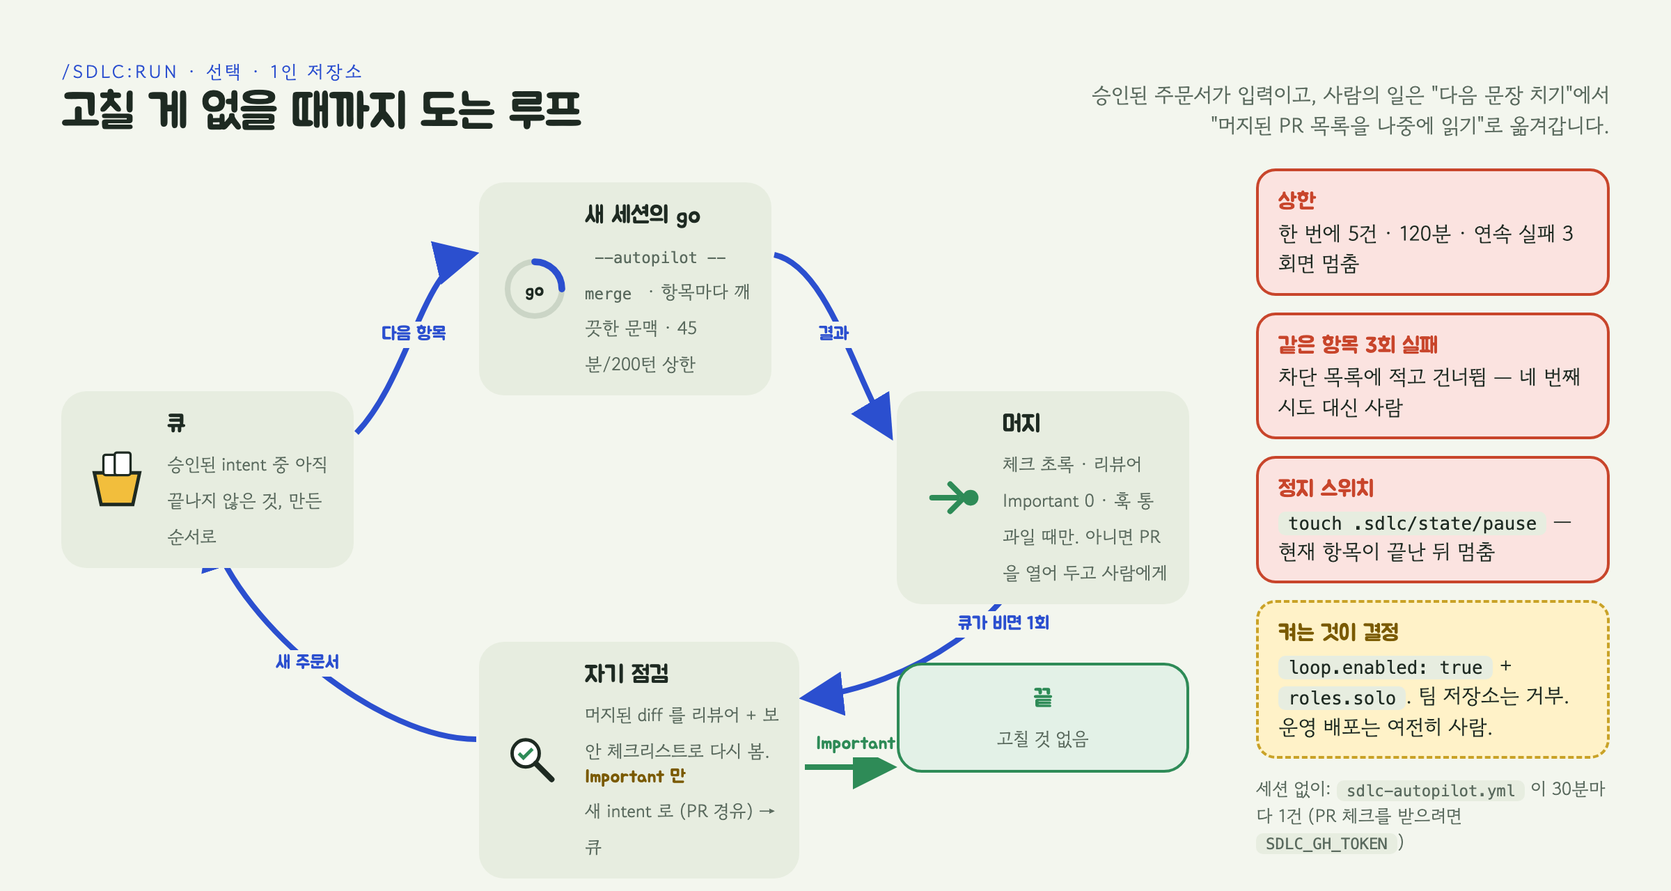
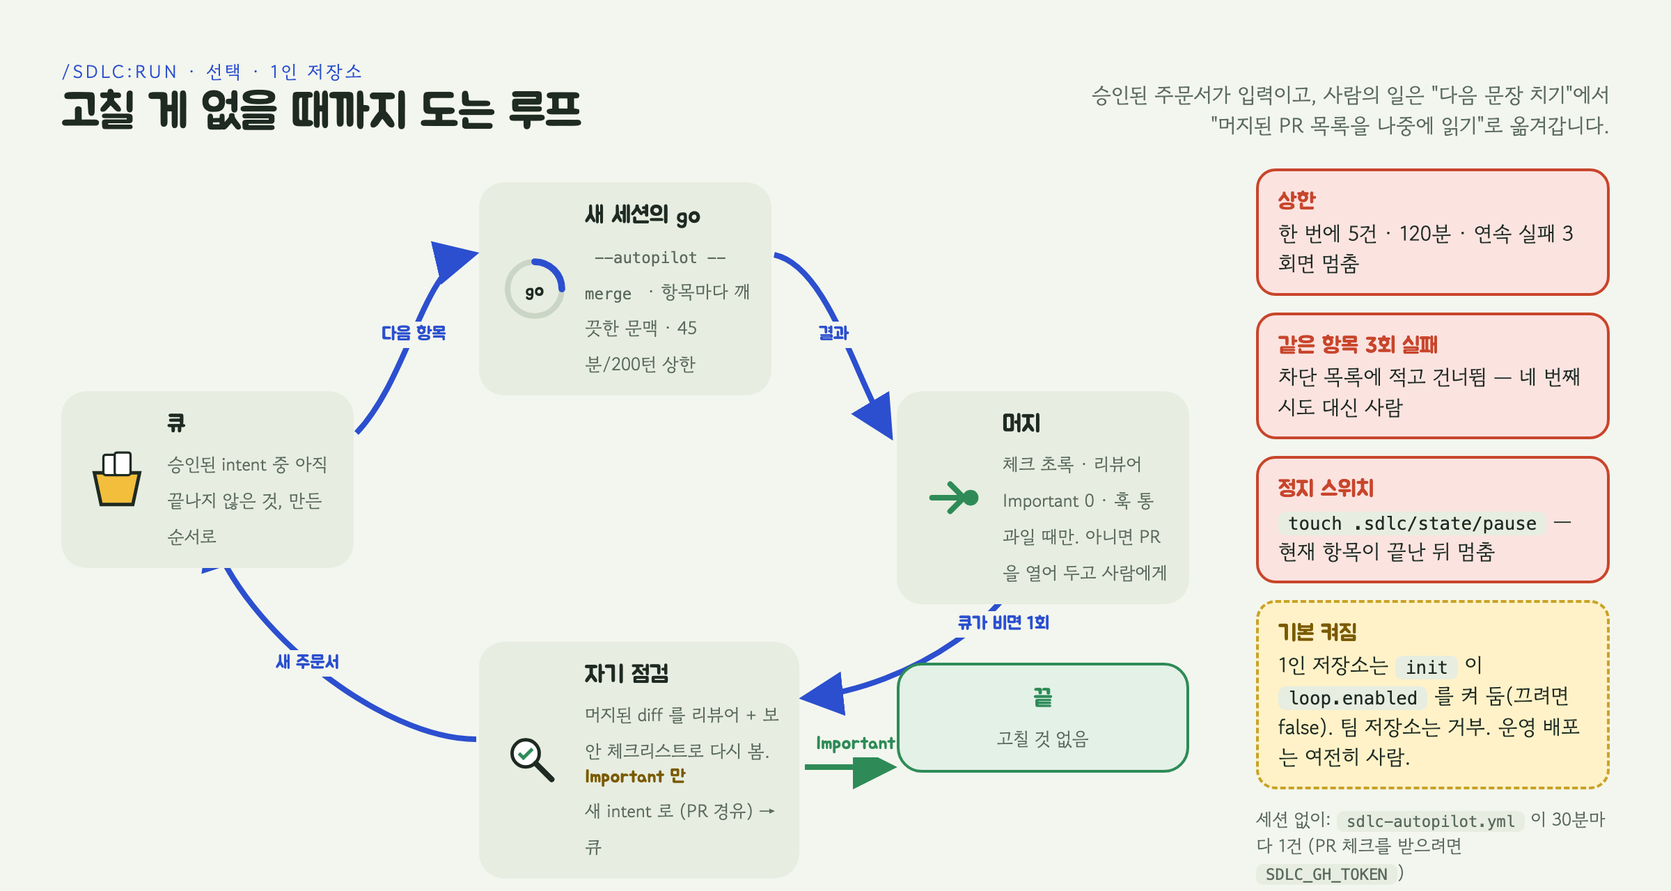
docs: every document says solo is automatic by default (0.5.1)
run/init skills, autopilot workflow header, mapping deviation note, ELI5 page, pictures 01/03, Archify card redelivered.

Claude-Session: https://claude.ai/code/session_01PJNbujz3n5Aw2NZTvboJ7k

Changed region(s): [[0.75, 0.6875, 0.9688, 1.0]]

diff --git a/docs/eli5-plugin.html b/docs/eli5-plugin.html
@@ -120,7 +120,7 @@ section:first-of-type{border-top:0}
   <div class="cards" style="margin-top:22px;grid-template-columns:repeat(auto-fit,minmax(300px,1fr))">
     <div class="card"><svg viewBox="0 0 64 64"><rect x="8" y="26" width="48" height="28" rx="6" fill="var(--accent)" stroke="var(--ink)" stroke-width="3"/><path d="M10 26 l6 -12 h32 l6 12z" fill="var(--sun)" stroke="var(--ink)" stroke-width="3"/><text x="32" y="46" text-anchor="middle" font-size="12" fill="var(--accent-ink)">1회</text></svg><div><b>/sdlc:init — 저장소마다 한 번</b><p class="kid">주방을 둘러보고 알아서 차려요. GitHub 주방인지, 혼자 쓰는 주방인지, 열쇠가 이미 있는지 보고 — 심부름 붙이기, 열쇠 보관, 머지 설정, 문 잠금 규칙까지 해 둔 다음, 바뀐 것은 PR 로 올려요.</p><p class="adult">GitHub 원격·협업자 수·보관된 구독 토큰 감지 → 워크플로 6종·CODEOWNERS·시크릿·auto-merge·ruleset(요금제가 허용할 때) → doctor → 채택 커밋을 브랜치+PR 로. 사람 몫은 계정당 한 번의 GitHub 로그인 승인과 토큰 발급(브라우저)</p></div></div>
     <div class="card"><svg viewBox="0 0 64 64"><circle cx="32" cy="32" r="24" fill="none" stroke="var(--line)" stroke-width="5"/><path d="M32 8 a24 24 0 0 1 24 24" fill="none" stroke="var(--accent)" stroke-width="6" stroke-linecap="round"/><path d="M52 26 l4 6 l6 -4" fill="none" stroke="var(--accent)" stroke-width="4"/><text x="32" y="38" text-anchor="middle" font-size="16">go</text></svg><div><b>/sdlc:go "…" — 변경마다 한 줄</b><p class="kid">"이거 해줘" 한 마디면 주문서 → 레시피 → 순서표 → 요리 → 맛보기 → 검사 → 서빙 준비(PR)까지 이어서 해요. 정말 물어야 할 때만 멈춰요: 규칙이 서로 부딛힐 때, 세 번 맛봐도 실패할 때, 진짜 홀 문. 팀 주방에서는 서빙(머지) 결정도.</p><p class="adult"><code>/sdlc:go "요청"</code> · 1인 주방은 기본이 자동 — 순서표 허락 생략 + 체크 초록 뒤 머지(<code>roles.autopilot</code>·<code>roles.auto_merge</code>, init 이 켬). 멈추고 싶으면 그 키를 false 로, 또는 그 한 번만 <code>--no-autopilot</code> / <code>--no-merge</code>. 팀 주방은 주문서·순서표 승인과 머지 결정이 남아요</p></div></div>
-    <div class="card"><svg viewBox="0 0 64 64"><circle cx="32" cy="32" r="22" fill="none" stroke="var(--line)" stroke-width="5"/><path d="M32 10 a22 22 0 1 1 -22 22" fill="none" stroke="var(--stop)" stroke-width="6" stroke-linecap="round"/><path d="M10 26 v8 l8 -2" fill="none" stroke="var(--stop)" stroke-width="4"/><text x="32" y="37" text-anchor="middle" font-size="13">run</text></svg><div><b>/sdlc:run — 백로그 끝까지 (선택)</b><p class="kid">주문서가 쌓여 있으면 상자가 한 장씩 꺼내 요리 → 검사 → PR → 서빙까지 하고, 다 끝나면 자기 요리를 다시 검사해서 고칠 게 있으면 새 주문서를 써요. 고칠 게 없을 때까지요. 혼자 쓰는 주방에서, 주인이 스위치를 켰을 때만.</p><p class="adult">1인 주방이면 스위치가 켜져 있어요(<code>loop.enabled</code>, 끄려면 false) · 항목마다 새 세션의 <code>go --autopilot --merge</code> · 상한(건수·시간·연속 실패 3회)·slug 별 차단·정지 파일 <code>.sdlc/state/pause</code> · <code>sdlc-autopilot.yml</code> 이 30분마다 1건</p></div></div>
+    <div class="card"><svg viewBox="0 0 64 64"><circle cx="32" cy="32" r="22" fill="none" stroke="var(--line)" stroke-width="5"/><path d="M32 10 a22 22 0 1 1 -22 22" fill="none" stroke="var(--stop)" stroke-width="6" stroke-linecap="round"/><path d="M10 26 v8 l8 -2" fill="none" stroke="var(--stop)" stroke-width="4"/><text x="32" y="37" text-anchor="middle" font-size="13">run</text></svg><div><b>/sdlc:run — 백로그 끝까지 (선택)</b><p class="kid">주문서가 쌓여 있으면 상자가 한 장씩 꺼내 요리 → 검사 → PR → 서빙까지 하고, 다 끝나면 자기 요리를 다시 검사해서 고칠 게 있으면 새 주문서를 써요. 고칠 게 없을 때까지요. 혼자 쓰는 주방이면 스위치가 켜져 있고(끄려면 끄면 돼요), 팀 주방에서는 돌지 않아요.</p><p class="adult">1인 주방이면 스위치가 켜져 있어요(<code>loop.enabled</code>, 끄려면 false) · 항목마다 새 세션의 <code>go --autopilot --merge</code> · 상한(건수·시간·연속 실패 3회)·slug 별 차단·정지 파일 <code>.sdlc/state/pause</code> · <code>sdlc-autopilot.yml</code> 이 30분마다 1건</p></div></div>
   </div>
   <p class="grown" style="margin-top:18px"><b>나머지 심부름은?</b> <code>go</code> 가 안에서 하나씩 부르는 부품이에요. 승인을 다른 사람이 하는 팀 주방이나 한 번에 담기지 않는 큰 요리에서만 따로 불러요.</p>
 </section>
@@ -265,7 +265,7 @@ section:first-of-type{border-top:0}
   <div class="two">
     <div><svg viewBox="0 0 90 90"><path d="M25 62 q0 -30 20 -30 q20 0 20 30 z" fill="var(--sun)" stroke="var(--ink)" stroke-width="3"/><circle cx="45" cy="70" r="5" fill="var(--ink)"/><path d="M45 32 v-8" stroke="var(--ink)" stroke-width="3"/></svg><div><b>종 (monitor)</b><span>30분마다 손님 얼굴(지표)을 재고 30일 평균과 비교해요. 평균에서 얼마나 벗어났는지에 따라 메모 → 진단 → 제안. 탐지에는 AI를 쓰지 않아요. GitHub 심부름 <code>sdlc-monitor.yml</code>이 돌려요.</span></div></div>
     <div><svg viewBox="0 0 90 90"><path d="M20 66 h50" stroke="var(--ink)" stroke-width="4"/><path d="M45 66 v-30" stroke="var(--ink)" stroke-width="4"/><path d="M24 66 q10 16 22 0" fill="none" stroke="var(--ink)" stroke-width="3"/><path d="M44 66 q10 16 22 0" fill="none" stroke="var(--ink)" stroke-width="3"/><circle cx="45" cy="33" r="5" fill="var(--sun)" stroke="var(--ink)" stroke-width="3"/></svg><div><b>저울 (metrics)</b><span>원문이 "이걸 재라"고 한 지표를 스테이지마다 계산해요. 주방에 없는 숫자는 지어내지 않고 "어디서 가져오면 되는지"만 적어요.</span></div></div>
-    <div><svg viewBox="0 0 90 90"><rect x="18" y="14" width="54" height="62" rx="8" fill="#fff" stroke="var(--ink)" stroke-width="3"/><g stroke="var(--ink)" stroke-width="3"><line x1="28" y1="30" x2="62" y2="30"/><line x1="28" y1="44" x2="62" y2="44"/><line x1="28" y1="58" x2="50" y2="58"/></g><circle cx="64" cy="64" r="10" fill="var(--ok)"/></svg><div><b>심부름 7개 (GitHub Actions)</b><span>규칙표가 바뀌면 다시-만들어보기, PR마다 검사원, 주문서가 승인되면 레시피 자동 초안, 빌드가 깨지면 3줄 원인 메모, 종 울리기, 주간 상한 것 찾기, 그리고 켰을 때만 30분마다 백로그 한 장을 처리하는 자동 루프. 전부 PR로 도착하고 main엔 직접 못 써요.</span></div></div>
+    <div><svg viewBox="0 0 90 90"><rect x="18" y="14" width="54" height="62" rx="8" fill="#fff" stroke="var(--ink)" stroke-width="3"/><g stroke="var(--ink)" stroke-width="3"><line x1="28" y1="30" x2="62" y2="30"/><line x1="28" y1="44" x2="62" y2="44"/><line x1="28" y1="58" x2="50" y2="58"/></g><circle cx="64" cy="64" r="10" fill="var(--ok)"/></svg><div><b>심부름 7개 (GitHub Actions)</b><span>규칙표가 바뀌면 다시-만들어보기, PR마다 검사원, 주문서가 승인되면 레시피 자동 초안, 빌드가 깨지면 3줄 원인 메모, 종 울리기, 주간 상한 것 찾기, 그리고 1인 주방이면 30분마다 백로그 한 장을 처리하는 자동 루프(끄려면 스위치). 전부 PR로 도착하고 main엔 직접 못 써요.</span></div></div>
     <div><svg viewBox="0 0 90 90"><circle cx="45" cy="45" r="34" fill="var(--paper)" stroke="var(--line)" stroke-width="3"/><circle cx="45" cy="45" r="24" fill="var(--mint)" opacity=".6"/><circle cx="45" cy="45" r="14" fill="var(--sun)"/><circle cx="45" cy="45" r="6" fill="var(--accent)"/></svg><div><b>사장님 설정 (기업용)</b><span>규제 회사면 관리자가 "아무도 끌 수 없는" 설정으로 잠금장치·울타리를 고정할 수 있어요. 그 파일과 설치 위치는 상자에 들어 있어요(<code>docs/ENTERPRISE.md</code>).</span></div></div>
   </div>
 </section>

diff --git a/docs/img/src/01-two-commands.html b/docs/img/src/01-two-commands.html
@@ -53,7 +53,7 @@ body{height:600px}
       <div class="step"><svg viewBox="0 0 64 64"><rect x="10" y="14" width="44" height="36" rx="8" fill="#fff" stroke="var(--ink)" stroke-width="3"/><g stroke="var(--ink)" stroke-width="3"><line x1="20" y1="26" x2="44" y2="26"/><line x1="20" y1="36" x2="36" y2="36"/></g><circle cx="44" cy="42" r="8" fill="var(--ok)"/><path d="M40 42 l3 3 l6 -6" fill="none" stroke="#fff" stroke-width="3"/></svg><b>PR</b><small>서빙 준비</small></div>
     </div></div>
     <div class="human"><b>사람이 답하는 곳은 넷</b><br>규칙이 서로 부딛힐 때 · 검증이 3번 실패했을 때 · 운영 배포 승인 · 머지 결정(팀 저장소, 또는 자동 머지를 끈 경우만). 나머지는 묻지 않습니다.</div>
-    <p class="soft" style="font-size:14px">선택: <code>/sdlc:run</code> — 승인된 주문서가 쌓여 있으면 한 장씩 위 과정을 돌고, 끝나면 자기 요리를 다시 검사해 고칠 게 없을 때까지 반복(1인 저장소, 스위치를 켠 경우만).</p>
+    <p class="soft" style="font-size:14px">선택: <code>/sdlc:run</code> — 승인된 주문서가 쌓여 있으면 한 장씩 위 과정을 돌고, 끝나면 자기 요리를 다시 검사해 고칠 게 없을 때까지 반복(1인 저장소는 기본 켜짐, 팀 저장소는 거부).</p>
   </div>
 </div>
 <p class="foot">github.com/freewisl/ai-native-sdlc · Anthropic “The AI-native SDLC playbook” 구현</p>

diff --git a/docs/archify-architecture.html b/docs/archify-architecture.html
@@ -5572,7 +5572,7 @@ OTHER DEALINGS IN THE FONT SOFTWARE.
         <ul>
           <li>&bull; /sdlc:init — 저장소마다 한 번, 설정·아티팩트 폴더·워크플로·GitHub 설정</li>
           <li>&bull; /sdlc:go — 변경마다 한 줄, intent → PR 까지 한 세션</li>
-          <li>&bull; /sdlc:run — 선택, 승인된 intent 큐를 고칠 것 없을 때까지</li>
+          <li>&bull; /sdlc:run — 승인된 intent 큐를 고칠 것 없을 때까지 (1인 저장소는 기본 켜짐)</li>
         </ul>
       </div>
 
@@ -5594,7 +5594,7 @@ OTHER DEALINGS IN THE FONT SOFTWARE.
           <h3>사람이 답하는 곳</h3>
         </div>
         <ul>
-          <li>&bull; 정책 충돌 · 검증 3회 실패 · 머지 결정 · 운영 배포 승인</li>
+          <li>&bull; 정책 충돌 · 검증 3회 실패 · 운영 배포 승인 (머지 결정은 팀 저장소만)</li>
           <li>&bull; PR 승인은 코드 오너만, 에이전트는 승인하지 않음</li>
           <li>&bull; 스킬·훅·스크립트는 모두 .sdlc/config.json 하나를 읽음</li>
         </ul>

diff --git a/docs/img/src/03-run-loop.html b/docs/img/src/03-run-loop.html
@@ -50,7 +50,7 @@ svg.wires{position:absolute;inset:0;width:100%;height:100%;pointer-events:none}
     <div class="stopbox"><b>상한</b><br>한 번에 5건 · 120분 · 연속 실패 3회면 멈춤</div>
     <div class="stopbox"><b>같은 항목 3회 실패</b><br>차단 목록에 적고 건너뜀 — 네 번째 시도 대신 사람</div>
     <div class="stopbox"><b>정지 스위치</b><br><code>touch .sdlc/state/pause</code> — 현재 항목이 끝난 뒤 멈춤</div>
-    <div class="human"><b>켜는 것이 결정</b><br><code>loop.enabled: true</code> + <code>roles.solo</code>. 팀 저장소는 거부. 운영 배포는 여전히 사람.</div>
+    <div class="human"><b>기본 켜짐</b><br>1인 저장소는 <code>init</code> 이 <code>loop.enabled</code> 를 켜 둠(끄려면 false). 팀 저장소는 거부. 운영 배포는 여전히 사람.</div>
     <p class="soft" style="font-size:13px">세션 없이: <code>sdlc-autopilot.yml</code> 이 30분마다 1건 (PR 체크를 받으려면 <code>SDLC_GH_TOKEN</code>)</p>
   </div>
 </div>

diff --git a/plugins/sdlc/README.md b/plugins/sdlc/README.md
@@ -528,7 +528,7 @@ Jira·ServiceNow·요구사항 관리 도구가 이미 감사인이 인정하는
 | `sdlc-ci-triage.yml` | 다른 워크플로 실패(`workflow_run` failure) | `claude -p` 로 3줄 triage(원인·flaky 여부·요약) → PR 코멘트(블로그 pipeline step 원문) | CI 시크릿; PR 코멘트 쓰기 |
 | `sdlc-monitor.yml` | cron | `monitor.py` → 밴드 위반 시 triage intent 를 커밋하는 PR | `GITHUB_TOKEN`(gh 명령), 2σ 이상에서 CI 시크릿 |
 | `sdlc-scan.yml` | 주간 cron | `/sdlc:scan` 헤드리스 → 이슈 또는 수정 PR | CI 시크릿; 이슈·PR 쓰기 |
-| `sdlc-autopilot.yml` | 30분 cron + 수동 | `run-loop.sh --once`: 승인된 intent 1건을 새 세션의 `go --autopilot --merge` 로 처리(`roles.solo` + `loop.enabled` 일 때만 동작). 상한·정지 파일 동일 | CI 시크릿 + **`SDLC_GH_TOKEN`**(fine-grained PAT: Contents·Pull requests 쓰기). 기본 `GITHUB_TOKEN` 으로 만든 PR 은 다른 워크플로(review·evals)를 깨우지 못해 체크가 영영 안 뜨므로, 없으면 PR 을 열어 두고 사람에게 남김 |
+| `sdlc-autopilot.yml` | 30분 cron + 수동 | `run-loop.sh --once`: 승인된 intent 1건을 새 세션의 `go --autopilot --merge` 로 처리(1인 저장소면 기본 동작, `loop.enabled: false` 로 끔; 팀 저장소는 거부). 상한·정지 파일 동일 | CI 시크릿 + **`SDLC_GH_TOKEN`**(fine-grained PAT: Contents·Pull requests 쓰기). 기본 `GITHUB_TOKEN` 으로 만든 PR 은 다른 워크플로(review·evals)를 깨우지 못해 체크가 영영 안 뜨므로, 없으면 PR 을 열어 두고 사람에게 남김 |
 | `CODEOWNERS` | — | `CLAUDE.md` `.claude/` `REVIEW.md` `.sdlc/` `intent/ spec/ plan/` `evals/` 의 오너 자리(플레이스홀더) | 브랜치 보호에서 코드 오너 승인 필수로 설정 |
 
 **GitHub 쪽 설정도 자동으로.** `/sdlc:init` 은 sdlc 워크플로가 자리 잡으면(방금 설치했든, 이미 있었든) 이어서 `bash "${CLAUDE_PLUGIN_ROOT}/scripts/github-setup.sh"` 를 실행합니다. `gh` 로 세 가지를 합니다 — ① CI 인증 시크릿 등록(`ci.auth` 가 `oauth` 면 키체인/파일에 보관된 구독 토큰을 재사용, 없으면 `--token-stdin` 으로 붙여 넣기; 토큰은 출력하지 않음) ② 저장소 설정 `allow_auto_merge`·`delete_branch_on_merge`(`/sdlc:go --merge` 용, 룰셋보다 먼저 처리해 요금제와 무관하게 적용) ③ 기본 브랜치 ruleset(PR 필수 · 리뷰 스레드 해소 · 팀 저장소는 코드 오너 리뷰 · 필수 상태 체크 `evals` · force-push/삭제 차단). 1인 저장소는 승인 0 + 코드 오너 요구 없음이고 관리자 bypass 는 넣지 않아 `evals` 체크가 살아 있습니다 — `--bypass` 를 주면 관리자가 체크까지 건너뛰므로 evals 는 권고가 됩니다. `--dry-run` 이 페이로드를 보여 주고, `gh` 가 없으면 수동 절차를 안내합니다. 비공개 개인 저장소(Free 요금제)는 ruleset 이 GitHub Pro 이상이라 403 으로 끝나며, 그때는 훅과 `go` 의 규율(체크 초록·리뷰어 Important 0·푸시 가드)만으로 자동 머지가 이어집니다. 공개 저장소나 Pro 이상은 룰셋이 서버에서 같은 규칙을 한 번 더 강제합니다 — 어느 쪽이든 기본은 자동이고 제한은 사용자가 켭니다. `/sdlc:doctor` 가 CI 인증 일관성(설정↔워크플로) · 시크릿 · ruleset · auto-merge 를 행으로 보고합니다.

diff --git a/docs/PLAYBOOK-MAPPING.md b/docs/PLAYBOOK-MAPPING.md
@@ -214,7 +214,7 @@
 | R-3.1.8 | 세 가지 자문 | COVERED | plan:33-34 |
 | R-3.1.9 | 완료 기준 | COVERED | plan:35-36 |
 | R-3.1.10 | plan.md 커밋 | COVERED | plan:39-44 |
-| R-3.1.11 | 승인 후 구현 | COVERED | plan:46 (solo `--autopilot` 편차는 §읽는 법 첫 항목; 승인 주체는 `approved_by`·`approval_basis` 로 기록) |
+| R-3.1.11 | 승인 후 구현 | COVERED | plan:46 (solo 기본 autopilot 편차는 §읽는 법 첫 항목; 승인 주체는 `approved_by`·`approval_basis` 로 기록) |
 | R-3.1.12 | 벗어나면 같은 커밋에 갱신, 훅 | COVERED | plan:47-49, scripts/hooks/stop-verify.sh:51-61 (`plan.enforce_sync`), post-edit.sh:20-24 |
 | R-3.1.13 | `# Plan: <title> (from …)` | COVERED | templates/en/plan.md:13 (`from {{spec_path}}` — 원문은 intent 날짜) |
 | R-3.1.14 | `## Files that change` | COVERED | plan.md:15 |
@@ -535,7 +535,7 @@ MISSING 0건. 남은 PARTIAL 1건은 아래 "읽는 법" 의 마지막 항목에
 
 ## 읽는 법
 
-- **`/sdlc:go --autopilot` 은 명시적·선택적·1인 저장소 한정 편차입니다.** 원문 "Nothing is implemented without an accepted plan" 의 '수락' 을 solo 모드에서는 사용자의 요청 자체로 보고 plan.md 를 커밋한 뒤 구현합니다. plan 은 여전히 커밋되어 리뷰어가 diff 를 대조하고, 훅·리뷰·브랜치 보호·production 게이트는 그대로 적용됩니다. 팀 저장소(`roles.solo: false`)에서는 intent·plan 승인 지점이 유지됩니다.
+- **1인 저장소의 autopilot·auto-merge(`roles.autopilot`·`roles.auto_merge`, `init` 이 켬)는 기본값이고 팀 저장소에서는 꺼져 있는, 1인 저장소 한정 편차입니다. 사용자는 해당 키를 false 로 두거나 `--no-autopilot`/`--no-merge` 로 원문의 정지 지점을 되살릴 수 있습니다.** 원문 "Nothing is implemented without an accepted plan" 의 '수락' 을 solo 모드에서는 사용자의 요청 자체로 보고 plan.md 를 커밋한 뒤 구현합니다. plan 은 여전히 커밋되어 리뷰어가 diff 를 대조하고, 훅·리뷰·브랜치 보호·production 게이트는 그대로 적용됩니다. 팀 저장소(`roles.solo: false`)에서는 intent·plan 승인 지점이 유지됩니다.
 
 - **원문 코드 블록 14종은 전부 파일로 보존됩니다.** `templates/examples/` 에 원문이 인쇄된 그대로 들어 있고(`/sdlc:init` 이 `.sdlc/examples/` 로 복사), 같은 디렉터리의 `README.md` 가 각 블록과 이 플러그인의 일반화한 대응물을 1:1 로 짚습니다 — intent.md(A.1) · Stage 2 프롬프트(A.2) · plan.md(A.3) · CLAUDE.md "Payments service"(A.4) · secure-api-review 스킬(A.5) · verifier.md(A.6) · 검증 블록(A.7) · agent-evals.yml(A.8) · REVIEW.md(A.9) · settings.json 훅 등록(A.10) · production-gate.sh(A.11) · 관리형 설정 JSON(A.12) · triage 스텝(A.13) · bands.yaml(A.14).
 - **호스팅 제품**(Claude Code Review · Claude Security · Claude Tag · Claude Design · Cowork)은 플러그인이 구현하지 않으며, 절차 안내와 로컬 대체(`/sdlc:review` · `/sdlc:scan` · `/sdlc:postmortem`)를 제공합니다. EXTERNAL-DOCUMENTED 7건이 이에 해당합니다.

diff --git a/plugins/sdlc/skills/run/SKILL.md b/plugins/sdlc/skills/run/SKILL.md
@@ -13,11 +13,11 @@ allowed-tools: Read, Bash(bash "${CLAUDE_PLUGIN_ROOT}/scripts/*"), Bash(git *), 
 - **`/sdlc:run`:** the backlog is the input. Every approved intent becomes a merged PR, the merged result is reviewed again, and Important findings become the next items — until the queue is empty. The human's job moves from typing and merging to reading what merged (the playbook's auto-mode stance: review artifacts after the session instead of watching edits).
 
 ## When to use
-A repository with `roles.solo: true` where the owner has decided that green checks + the reviewer agent + hooks are enough to merge without a person at the gate. Never on team repositories: there the intent and plan approvals belong to other people, and the script refuses. Typed by the user only (`disable-model-invocation`) — a loop that merges code must never start from a phrase the model inferred.
+A repository with `roles.solo: true`. There the loop is on by default (`init` sets `loop.enabled`, `roles.autopilot` and `roles.auto_merge`): green checks + the reviewer agent + hooks are the merge gate, and the owner adds a pause only by setting one of those false. Never on team repositories: there the intent and plan approvals belong to other people, and the script refuses. Typed by the user only (`disable-model-invocation`) — a loop that merges code must never start from a phrase the model inferred.
 
 ## Inputs
 - `$ARGUMENTS`: `--max-items N` (default `loop.max_items`, 5) · `--max-minutes M` (120) · `--once` (one item; what the CI workflow uses) · `--no-self-check` · `--dry-run` (queue and commands only).
-- `.sdlc/config.json` → `loop.*`: `enabled` (false — must be set to true on purpose), `max_items`, `max_minutes`, `item_max_minutes`, `max_turns`, `max_failures_per_slug`, `self_check`, `model`, `allowed_tools`, `pause_file`.
+- `.sdlc/config.json` → `loop.*`: `enabled` (on for solo repositories — `init` sets it; false switches the loop off), `max_items`, `max_minutes`, `item_max_minutes`, `max_turns`, `max_failures_per_slug`, `self_check`, `model`, `allowed_tools`, `pause_file`.
 
 ## Steps
 1. **Preflight.** `bash "${CLAUDE_PLUGIN_ROOT}/scripts/run-loop.sh" --dry-run $ARGUMENTS`. Show the queue it prints (approved intents without an implemented plan, an open PR, or a block mark) and the caps. If it refuses — not solo, `loop.enabled` false, dirty tree, pause file, gh not logged in — print its message verbatim and stop; do not work around any of these.

diff --git a/plugins/sdlc/skills/init/SKILL.md b/plugins/sdlc/skills/init/SKILL.md
@@ -64,8 +64,9 @@ Infrastructure: A repo, Claude Code installed, and one engineer who knows the co
    the same commands as CLAUDE.md (edit with `python3 -c` json load/dump; do not hand-edit JSON).
 6. **Optional integrations.** Zero-flag defaults fire first and are printed as NOTE lines — repeat them to the user: a GitHub
    remote (github.com or a `github.*` Enterprise host) installs the workflows without `--github` (`--no-github` refuses); a single
-   collaborator reported by `gh` sets `roles.solo` (`--no-solo` refuses; an unknown count keeps team gates; an existing `roles.solo`
-   is never overridden by detection, only by `--solo`); a stored subscription token selects `oauth`. The chosen auth is written to
+   collaborator reported by `gh` sets `roles.solo` and with it `roles.autopilot`, `roles.auto_merge` and `loop.enabled` — a solo
+   repository is fully automatic by default; a pause is something the owner adds by setting one of them false (`--no-solo` refuses;
+   an unknown count keeps team gates; an existing `roles.solo` is never overridden by detection, only by `--solo`); a stored subscription token selects `oauth`. The chosen auth is written to
    `.sdlc/config.json` (`ci.auth`) so `github-setup.sh` registers the matching secret. `--github`: `init.sh` copies `sdlc-*.yml`
    workflows and CODEOWNERS that do not exist yet. Ask which CI auth the user wants only when nothing decided it: `--auth api`
    (secret `ANTHROPIC_API_KEY`, API billing) or `--auth oauth`

diff --git a/plugins/sdlc/CHANGELOG.md b/plugins/sdlc/CHANGELOG.md
@@ -3,6 +3,11 @@
 All notable changes to the `sdlc` plugin are recorded here.
 The format follows [Keep a Changelog](https://keepachangelog.com/en/1.1.0/); versions follow [Semantic Versioning](https://semver.org/).
 
+## [0.5.1] - 2026-09-10
+
+### Changed
+- Documentation pass for the automatic-by-default solo behaviour: run/init skills, autopilot workflow header, PLAYBOOK-MAPPING deviation note, ELI5 page, pictures 01/03 and the Archify card no longer describe the loop or auto-merge as something the owner must switch on.
+
 ## [0.5.0] - 2026-09-10
 
 Default flipped for solo repositories: automatic unless the owner adds a pause.
